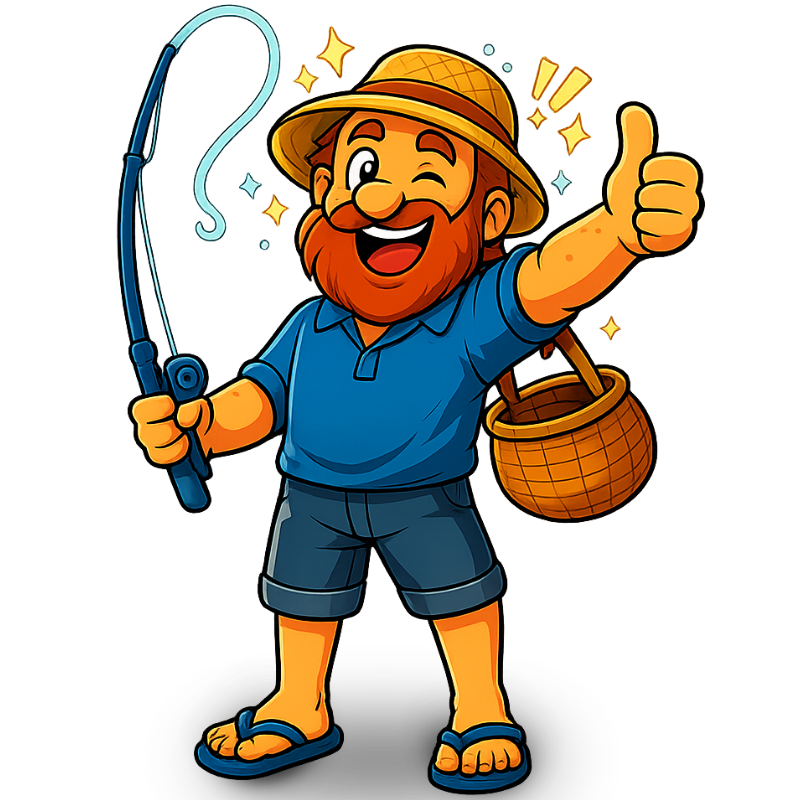
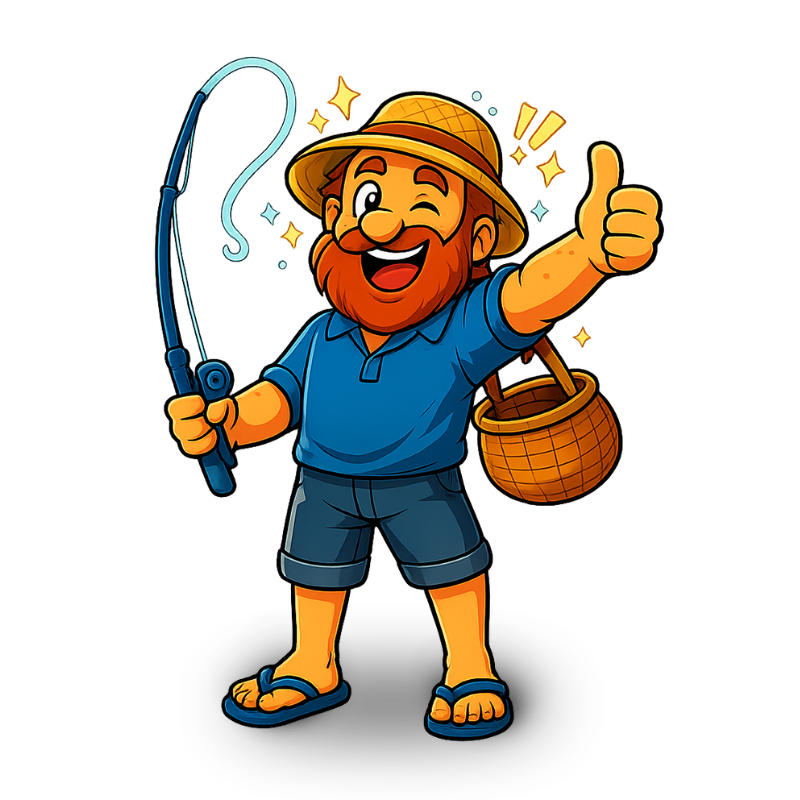
feat: arrumando mascote

diff --git a/index.html b/index.html
@@ -4575,7 +4575,7 @@ footer { background:#060c18; color:rgba(255,255,255,.48); padding:64px 0 40px; }
           <!-- Mascote -->
           <div class="mascote-img-c" style="position:relative;z-index:2;width:400px;height:400px;filter:drop-shadow(0 24px 64px rgba(10,126,226,.65)) drop-shadow(0 0 28px rgba(255,222,89,.3))">
             <picture>
-              <source srcset="img/mascote.webp" type="image/webp">
+              <source srcset="img/mascote-hero.webp" type="image/webp">
               <img src="img/mascote-hero.png" style="width:100%;height:100%;object-fit:contain" alt="Gasturinha — Mascote Conecte Telecom" loading="eager" decoding="async">
             </picture>
           </div>